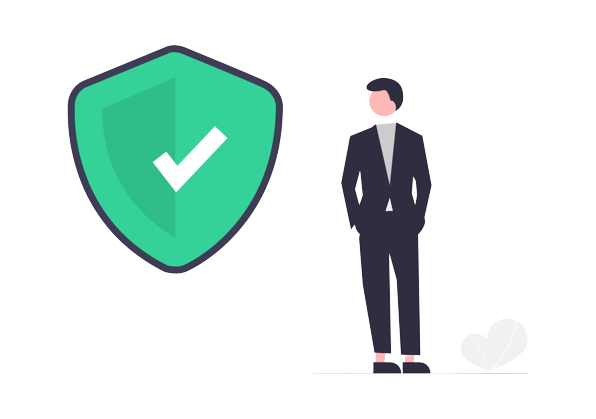
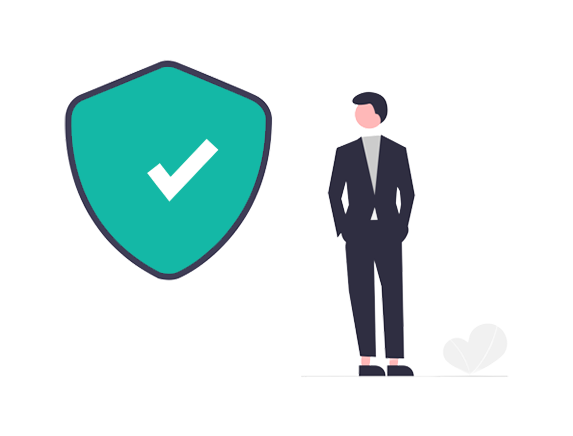
feat: new color

diff --git a/src/components/Navbar/Navbar.tsx b/src/components/Navbar/Navbar.tsx
@@ -4,12 +4,12 @@ import { useState } from 'react';
 export default function Navbar() {
   const [navbar, setNavbar] = useState(false);
   return (
-    <nav className='w-full border-b-4  border-emerald-400 bg-neutral-800 '>
+    <nav className='w-full border-b-4 border-teal-500 bg-neutral-800 '>
       <div className='justify-between md:w-4/6  px-4 mx-auto lg:max-w-7xl md:items-center md:flex md:px-8'>
         <div>
           <div className='flex items-center justify-between py-3 md:py-5 md:block'>
             <a href='#'>
-              <img src="/logo.png" alt="logo" style={{width: '100px'}} />
+              <img src="/logo.png" alt="logo" style={{width: '50px'}} />
             </a>
             <div className='md:hidden'>
               <button
@@ -60,10 +60,10 @@ export default function Navbar() {
                 <Link href='#perguntas-frequentes'>Perguntas frenquentes</Link>
               </li>
               <li className=''>
-                <Link href='/blogs'>Blog</Link>
+                <Link href=''>Blog</Link>
               </li>
               <li className=''>
-                <Link href='/about'>Contato</Link>
+                <Link href='mailto:contato@qr-code-pix.com.br'>Contato</Link>
               </li>
             </ul>
           </div>

diff --git a/src/components/Button/Button.tsx b/src/components/Button/Button.tsx
@@ -5,7 +5,7 @@ export const Button = (props: IButtonProps) => {
   return (
     <>
       <button
-        className={`${props.mobile ? 'block md:hidden' : 'block'} w-full rounded p-3 mt-2 text-white font-normal bg-emerald-400 disabled:opacity-50 disabled:bg-zinc-600`}
+        className={`${props.mobile ? 'block md:hidden' : 'block'} w-full rounded p-3 mt-2 text-white font-normal bg-teal-500 disabled:opacity-50 disabled:bg-zinc-600`}
         onClick={props.onClick}
         disabled={props.isDisabled}
       >

diff --git a/src/components/Footer/Footer.tsx b/src/components/Footer/Footer.tsx
@@ -3,7 +3,7 @@ import React from 'react';
 
 const Footer = () => {
   return (
-    <div className='w-full border-t-4 border-emerald-400 bg-neutral-800 p-10 flex-wrap'>
+    <div className='w-full border-t-4 border-teal-500 bg-neutral-800 p-10 flex-wrap'>
       <div className='flex justify-center'>
         <Link href='' className='text-white m-2'>
           Privacidade

diff --git a/src/components/Title/Title.tsx b/src/components/Title/Title.tsx
@@ -4,7 +4,7 @@ const Title = () => {
   return (
     <>
       <div className='p-4'>
-        <h1 className=' text-4xl lg:text-5xl text-emerald-400 text-center mt-6 font-bold'>
+        <h1 className=' text-4xl lg:text-5xl text-teal-500 text-center mt-6 font-bold'>
           Gere seu QR Code PIX
         </h1>
         <p className='text-center text-md text-gray-600'>

diff --git a/src/app/page.tsx b/src/app/page.tsx
@@ -153,7 +153,7 @@ function App(): JSX.Element {
               
               <QRCodeSVG
                 value={rawPix}
-                size={190}
+                size={220}
                 bgColor={'#ffffff'}
                 fgColor={colorQrCode}
                 level={'L'}
